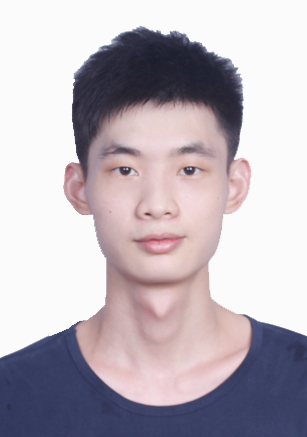
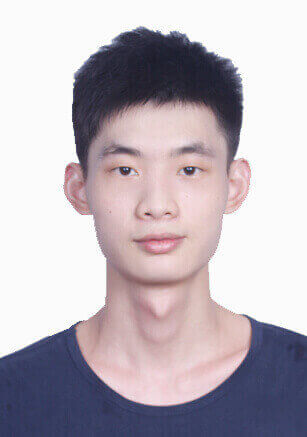
压缩图片

diff --git a/styles/common.css b/styles/common.css
@@ -1,69 +1,83 @@
-*{
+* {
     margin: 0;
     padding: 0;
 }
-body{
+
+body {
     font-family: 'youyuan';
 }
-a{
+
+a {
     text-decoration: none;
 }
-nav{
+
+nav {
     width: 100%;
     position: fixed;
     top: 0;
     z-index: 9999;
 }
-nav a{
+
+nav a {
     color: #fff;
 }
-nav .center{
+
+nav .center {
     margin: 0px auto;
     overflow: hidden;
 }
-nav .nav_logo{
+
+nav .nav_logo {
     float: left;
     width: 25%;
     height: 85px;
-    line-height:85px;
+    line-height: 85px;
     font-size: 50px;
     text-align: center;
 }
-nav .nav_bar{
+
+nav .nav_bar {
     float: right;
     width: 75%;
     font-size: 20px;
     font-weight: bold;
 }
-#fullpageMenu li{
+
+#fullpageMenu li {
     float: left;
     display: block;
     width: 20%;
     padding: 30px 0;
     text-align: center;
 }
-#fullpageMenu li a{
-    line-height:1.8;
+
+#fullpageMenu li a {
+    line-height: 1.8;
 }
-#fullpageMenu li a:after{
-    display:block;
-    content:"";
+
+#fullpageMenu li a:after {
+    display: block;
+    content: "";
     height: 2px;
     width: 0%;
     background-color: #80d6f2;
-    margin-left:25%;
+    margin-left: 25%;
     transition: width 0.5s ease-in;
-    -moz-transition: width .5s ease-in;   /* Firefox 4 */
-    -webkit-transition: width .5s ease-in; /* Safari 和 Chrome */
-    -o-transition: width .5s ease-in;   /* Opera */
+    -moz-transition: width .5s ease-in;
+    /* Firefox 4 */
+    -webkit-transition: width .5s ease-in;
+    /* Safari 和 Chrome */
+    -o-transition: width .5s ease-in;
+    /* Opera */
 }
-#fullpageMenu li a:hover:after{
+
+#fullpageMenu li a:hover:after {
     width: 50%;
 }
 
 
 /*section*/
-.section .text{
+.section .text {
     text-align: center;
     font-size: 20px;
     font-weight: normal;
@@ -74,65 +88,77 @@ nav .nav_bar{
     padding: 15px 0;
     border-bottom: 2px solid #9eddf2;
 }
-.section .box{
+
+.section .box {
     background-color: #fafafa;
     margin-top: 20px;
     height: 100%;
     overflow: hidden;
 }
-.section p{
+
+.section p {
     font-size: 20px;
-    line-height:2;
+    line-height: 2;
 }
 
 /*section2 section3 section4 section5 */
-.section2, .section3, .section4, .section5{
+.section2,
+.section3,
+.section4,
+.section5 {
     background-color: #dedede;
     padding: 50px;
 }
 
 /* section1*/
-.section1{
-    /* background: url(../images/bg.jpg) no-repeat center; */
-    background: #999;
+.section1 {
+    background: url(../images/bg.jpg) no-repeat center;
+    /* background: #999; */
     text-align: center;
- }
-.section1 .home_img{
-    padding:50px;
 }
- .section1 .home_img img{
-    width: 100px;
-    height:100px;
+
+.section1 .home_img {
+    padding: 50px;
+}
+
+.section1 .home_img img {
+    width: 150px;
+    height: 150px;
     border-radius: 50%;
- }
-.section1 .home_content{
-    display:block;
+}
+
+.section1 .home_content {
+    display: block;
     width: 50%;
     margin: 0 auto;
 }
-.section1 .home_content h2{
+
+.section1 .home_content h2 {
     font-size: 22px;
     color: #fff;
     line-height: 1.5;
     padding: 10px;
 }
-.section1 .home_content  .txt{
+
+.section1 .home_content .txt {
     text-align: center;
     border-bottom: 2px solid #fff;
 }
 
 /*section2*/
-.section2 .skill{
+.section2 .skill {
     margin-top: 20px;
     overflow: hidden;
 }
-.section2 .skill_level{
-    width:30%;
+
+.section2 .skill_level {
+    width: 30%;
     height: 100%;
     float: left;
     margin-left: 5%;
 }
-.section2 .skill_level .con{
+
+.section2 .skill_level .con {
     width: 160px;
     height: 160px;
     text-align: center;
@@ -140,79 +166,89 @@ nav .nav_bar{
     padding: 30px 10px 0 10px;
     position: relative;
 }
-.section2 .skill_level .con p{
+
+.section2 .skill_level .con p {
     font-size: 25px;
     font-weight: bold;
     margin: 0 auto;
 }
-.section2 .skill_content{
+
+.section2 .skill_content {
     width: 60%;
     float: right;
-    margin-top:30px;
+    margin-top: 30px;
 }
-canvas{
+
+canvas {
     position: absolute;
     top: 0;
     left: 0;
 }
 
 /*section3*/
-.section3 .project{
-    margin:15px 0px;
-    overflow:hidden;
+.section3 .project {
+    margin: 15px 0px;
+    overflow: hidden;
 }
-.section3 .project_time{
+
+.section3 .project_time {
     float: left;
-    width:140px;
+    width: 140px;
     height: 140px;
     margin-left: 10%;
     text-align: center;
     background-color: #E86064;
-    border-radius:50%;
+    border-radius: 50%;
     position: relative;
 }
-.section3 .project_time h3{
+
+.section3 .project_time h3 {
     font-size: 18px;
-    font-weight:normal;
+    font-weight: normal;
     color: #fff;
 }
-.section3 .project_time hgroup{
+
+.section3 .project_time hgroup {
     position: absolute;
     left: 8%;
     top: 30%;
 }
-.section3 .project_time:before{
+
+.section3 .project_time:before {
     content: "";
     display: inline-block;
-    padding-bottom:100%;
+    padding-bottom: 100%;
 }
-.section3 .project_content{
+
+.section3 .project_content {
     width: 75%;
     float: right;
     padding-left: 100px;
     border-left: 2px solid #9eddf2;
 }
-.section3 .project_content p{
+
+.section3 .project_content p {
     font-size: 18px;
-    font-weight:normal;
+    font-weight: normal;
 }
 
 /*section4*/
-.section4 .program{
+.section4 .program {
     margin: 20px 0 20px 10%;
     line-height: 2.8;
 }
 
-.section4 .program p{
+.section4 .program p {
     font-size: 20px;
 }
 
 /*section5*/
-.section5 table{
+.section5 table {
     text-align: center;
     margin: 10px auto;
 }
-.section5 table tr td{
+
+.section5 table tr td {
     font-size: 20px;
     padding: 15px 15px 15px 30px;
 }

diff --git a/index.html b/index.html
@@ -1,5 +1,6 @@
 <!DOCTYPE html>
 <html>
+
 <head>
     <meta charset="utf-8">
     <meta http-equiv="X-UA-Compatible" content="IE=edge">
@@ -9,6 +10,7 @@
     <link rel="stylesheet" href="styles/common.css">
     <link rel="stylesheet" href="styles/style.css">
 </head>
+
 <body>
     <nav>
         <div class="center">
@@ -29,7 +31,7 @@
     <div id="fullpage">
         <div class="section section1">
             <div class="home_img">
-                <img src="images/avatar.jpg" alt="">
+                <img src="images/avatar1.jpg" alt="">
             </div>
             <div class="home_content">
                 <h2 class="txt">只有想不通的人，没有走不通的路</h2>
@@ -132,7 +134,7 @@
             </div>
         </div>
         <div class="section section5">
-           <div class="box">
+            <div class="box">
                 <h2 class="text">最好的一面统统拿出来</h2>
                 <table>
                     <tbody>
@@ -175,27 +177,28 @@
     <script src="scripts/jquery.slimscroll.js"></script>
     <script src="scripts/jquery.fullPage.js"></script>
     <script type="text/javascript">
-        $(document).ready(function(){
+        $(document).ready(function () {
             $('#fullpage').fullpage({
-                verticalCentered:false,      //设置字体不垂直居中显示
-                anchors:['page1','page2','page3','page4','page5'],
-                menu:'#fullpageMenu',     //设置绑定菜单以控制滚动
+                verticalCentered: false, //设置字体不垂直居中显示
+                anchors: ['page1', 'page2', 'page3', 'page4', 'page5'],
+                menu: '#fullpageMenu', //设置绑定菜单以控制滚动
                 //设置页面上下边距
-                paddingTop:'80px',
-                paddingBottom:'50px',
+                paddingTop: '80px',
+                paddingBottom: '50px',
                 //设置右侧导航小圆点
-                navigation:true,
-                navigationPosition:'right',
+                navigation: true,
+                navigationPosition: 'right',
                 // navigationTooltips:['page1','page2','page3','page4','page5'],
                 //设置横向幻灯片
-                controlArrows:false,     //设置不通过箭头控制slide幻灯片
-                slidesNavigation:true,
-                slidesNavPosition:'bottom',
-                scrollOverflow:true,    //内容溢出后显示滚动条
+                controlArrows: false, //设置不通过箭头控制slide幻灯片
+                slidesNavigation: true,
+                slidesNavPosition: 'bottom',
+                scrollOverflow: true, //内容溢出后显示滚动条
             });
 
         });
     </script>
     <script src="scripts/main.js"></script>
 </body>
+
 </html>
